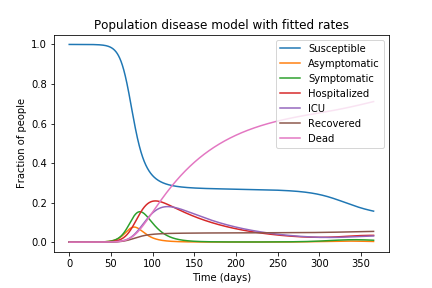
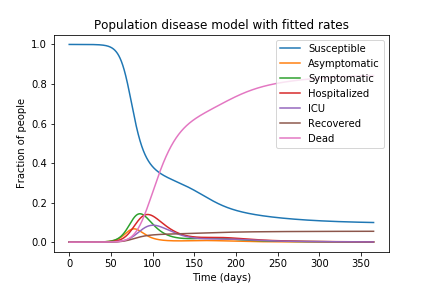
added the new deathrate split (take care to also add r_d0 in the parameters.txt file if you want to use another one, add it to the last line)

diff --git a/function_lib_new.py b/function_lib_new.py
@@ -42,18 +42,20 @@ def populationModel(n, t, paras):
   R_inf2 = paras['r_meeting2'].value * paras['r_infection2'].value * (SP / TP) * IP2 #infection rate 2: people are infected by symptomatic patients
   R_inf3 = paras['r_meeting3'].value * paras['r_infection3'].value * (SP / TP) * (IP3) #infection rate 3: people are infected by hospitalized patients
   R_inf4 = paras['r_meeting4'].value * paras['r_infection4'].value * (SP / TP) * (IP4) #infection rate 3: people are infected by ICU patients
-  r_d = paras['r_d1'].value + logistic(IP4, cap_IC) * paras['r_d1'] * paras['r_d2']
+  r_dicu = paras['r_d1'].value + logistic(IP4, cap_IC) * paras['r_d1'] * paras['r_d2']
+  r_dhos = paras['r_d0']
+   
   
   dn = np.empty(len(n)) #create an empty array to define the ODEs
   
   # v2.3
   dn[0] = - R_inf1 - R_inf2 - R_inf3 - R_inf4
   dn[1] = + R_inf1 + R_inf2 + R_inf3 + R_inf4 - paras['r_sym'].value * IP1 - paras['r_im1'].value * IP1
-  dn[2] = + paras['r_sym'].value * IP1 - paras['r_hos'].value * IP2 - paras['r_im2'].value * IP2 - r_d * IP2 
-  dn[3] = + paras['r_hos'].value * IP2 - paras['r_im3'].value * IP3 - r_d * IP3 + paras['r_rehos'].value * IP4 - paras['r_ic'].value * IP3
-  dn[4] = + paras['r_ic'].value * IP3 - paras['r_rehos'].value * IP4 -r_d * IP4;
+  dn[2] = + paras['r_sym'].value * IP1 - paras['r_hos'].value * IP2 - paras['r_im2'].value * IP2 #- r_d * IP2 
+  dn[3] = + paras['r_hos'].value * IP2 - paras['r_im3'].value * IP3 - r_dhos * IP3 + paras['r_rehos'].value * IP4 - paras['r_ic'].value * IP3
+  dn[4] = + paras['r_ic'].value * IP3 - paras['r_rehos'].value * IP4 -r_dicu * IP4;
   dn[5] = + paras['r_im1'].value * IP1 + paras['r_im2'].value * IP2 + paras['r_im3'].value* IP3
-  dn[6] = + r_d * (IP2 + IP3 + IP4)
+  dn[6] = + r_dhos * IP3 + r_dicu* IP4
   
   return dn
 
@@ -140,9 +142,9 @@ def data_loader(filename,pop_size):
 
 def parameters(vals,country_data):
     params = Parameters() #special type of parameters as defined by the lmfit module
-    params.add('r_meeting1', value=vals[0], vary=True, min=0)
-    params.add('r_meeting2', value=vals[1], vary=True,min=0)
-    params.add('r_meeting3', value=vals[2], vary=True,min=0)
+    params.add('r_meeting1', value=vals[0], vary=False, min=0, max=15)
+    params.add('r_meeting2', value=vals[1], vary=False, min=0, max=7)
+    params.add('r_meeting3', value=vals[2], vary=True, min=0, max=4)
     params.add('r_meeting4', value=vals[3], vary=True,min=0)
     params.add('r_infection1', value=vals[4], vary=True,min=0)
     params.add('r_infection2', value=vals[5], vary=True,min=0)
@@ -166,4 +168,5 @@ def parameters(vals,country_data):
     params.add('n0_dead', value=country_data[0,6], vary=False)
     params.add('n_beds', value=vals[24], vary=False)
     params.add('pop_size', value=vals[25], vary=False)
+    params.add('r_d0', value=vals[26], vary=True,min=0)
     return params

diff --git a/infectionModel_v3.0.py b/infectionModel_v3.0.py
@@ -18,7 +18,7 @@ if not os.path.exists('figures'):
 colors = ['r', 'b', 'g', 'c', 'm', 'k', 'y']
 
 # what country/region?
-country = 'geneve' #pick 'iceland' for Iceland
+country = 'campania' #pick 'iceland' for Iceland
 datafile = country + '_data.csv'
 parameterfile = country + '_parameters.txt'
 input_dict = file_to_dict(parameterfile)  
